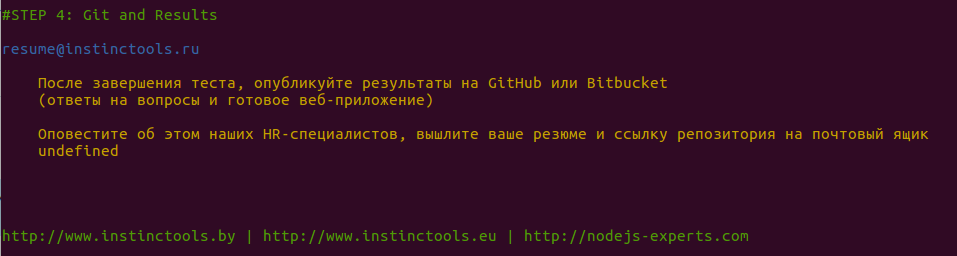
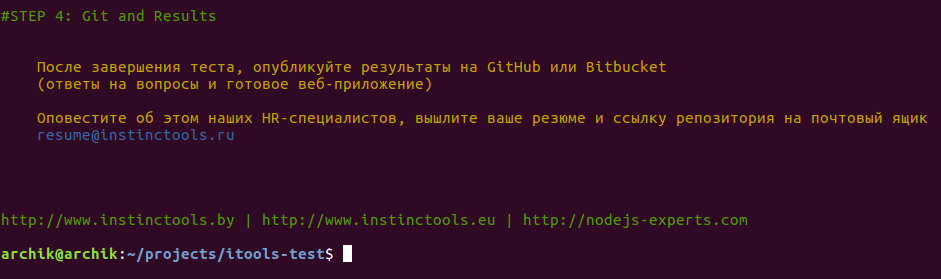
new module version

diff --git a/cli/step4.js b/cli/step4.js
@@ -9,7 +9,7 @@ module.exports = function step4() {
     (ответы на вопросы и готовое веб-приложение)
     
     Оповестите об этом наших HR-специалистов, вышлите ваше резюме и ссылку репозитория на почтовый ящик 
-    ${console.log(chalk.blue('resume@instinctools.ru'))}\n
+    ${chalk.blue('resume@instinctools.ru')}\n
     `));
 
     console.log(chalk.green('\n\nhttp://www.instinctools.by | http://www.instinctools.eu | http://nodejs-experts.com\n'));

diff --git a/README.md b/README.md
@@ -7,19 +7,19 @@ And perform all the tasks step by step
 
 ## Step 1. Complete test (RUS language)
 
-![s1]( "s1")
+![s1](https://bytebucket.org/archik/itools-candidate-test/raw/53dd1b388d2218b67a49ba18512393f3657d3e9e/media/s1.png "s1")
 
 ## Step 2. Complete server side part of application
 
-![s2]( "s2")
+![s2](https://bytebucket.org/archik/itools-candidate-test/raw/53dd1b388d2218b67a49ba18512393f3657d3e9e/media/s2.png "s2")
 
 ## Step 3. Complete client side part of application
 
-![s3]( "s3")
+![s3](https://bytebucket.org/archik/itools-candidate-test/raw/53dd1b388d2218b67a49ba18512393f3657d3e9e/media/s3.png "s3")
 
 ## Step 4. Publish your results
 
-![s4]( "s4")
+![s4](https://bytebucket.org/archik/itools-candidate-test/raw/53dd1b388d2218b67a49ba18512393f3657d3e9e/media/s4.png "s4")
 
 
 You can run specific test step via command `node itools-candidate-test --step 2` or `node itools-candidate-test -s 2`
